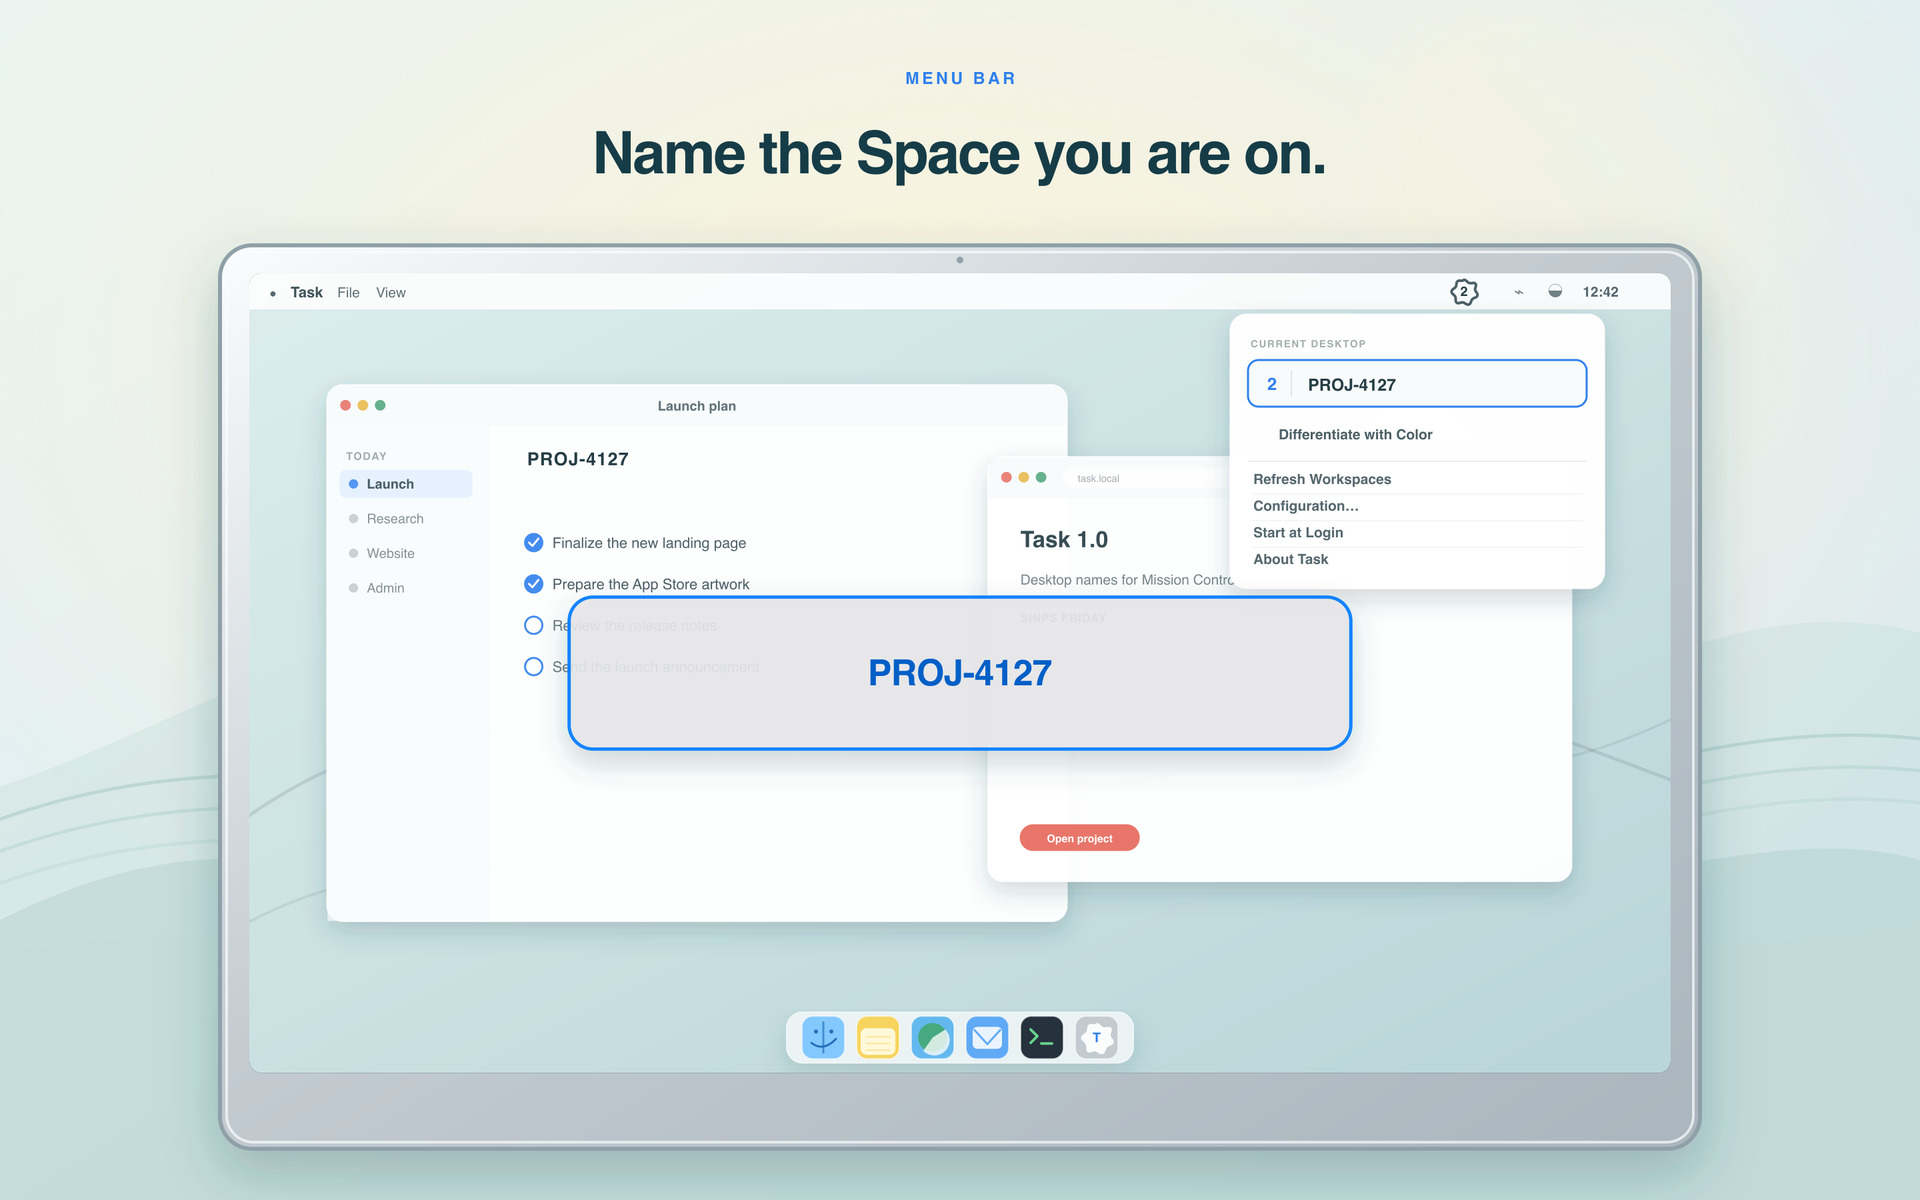
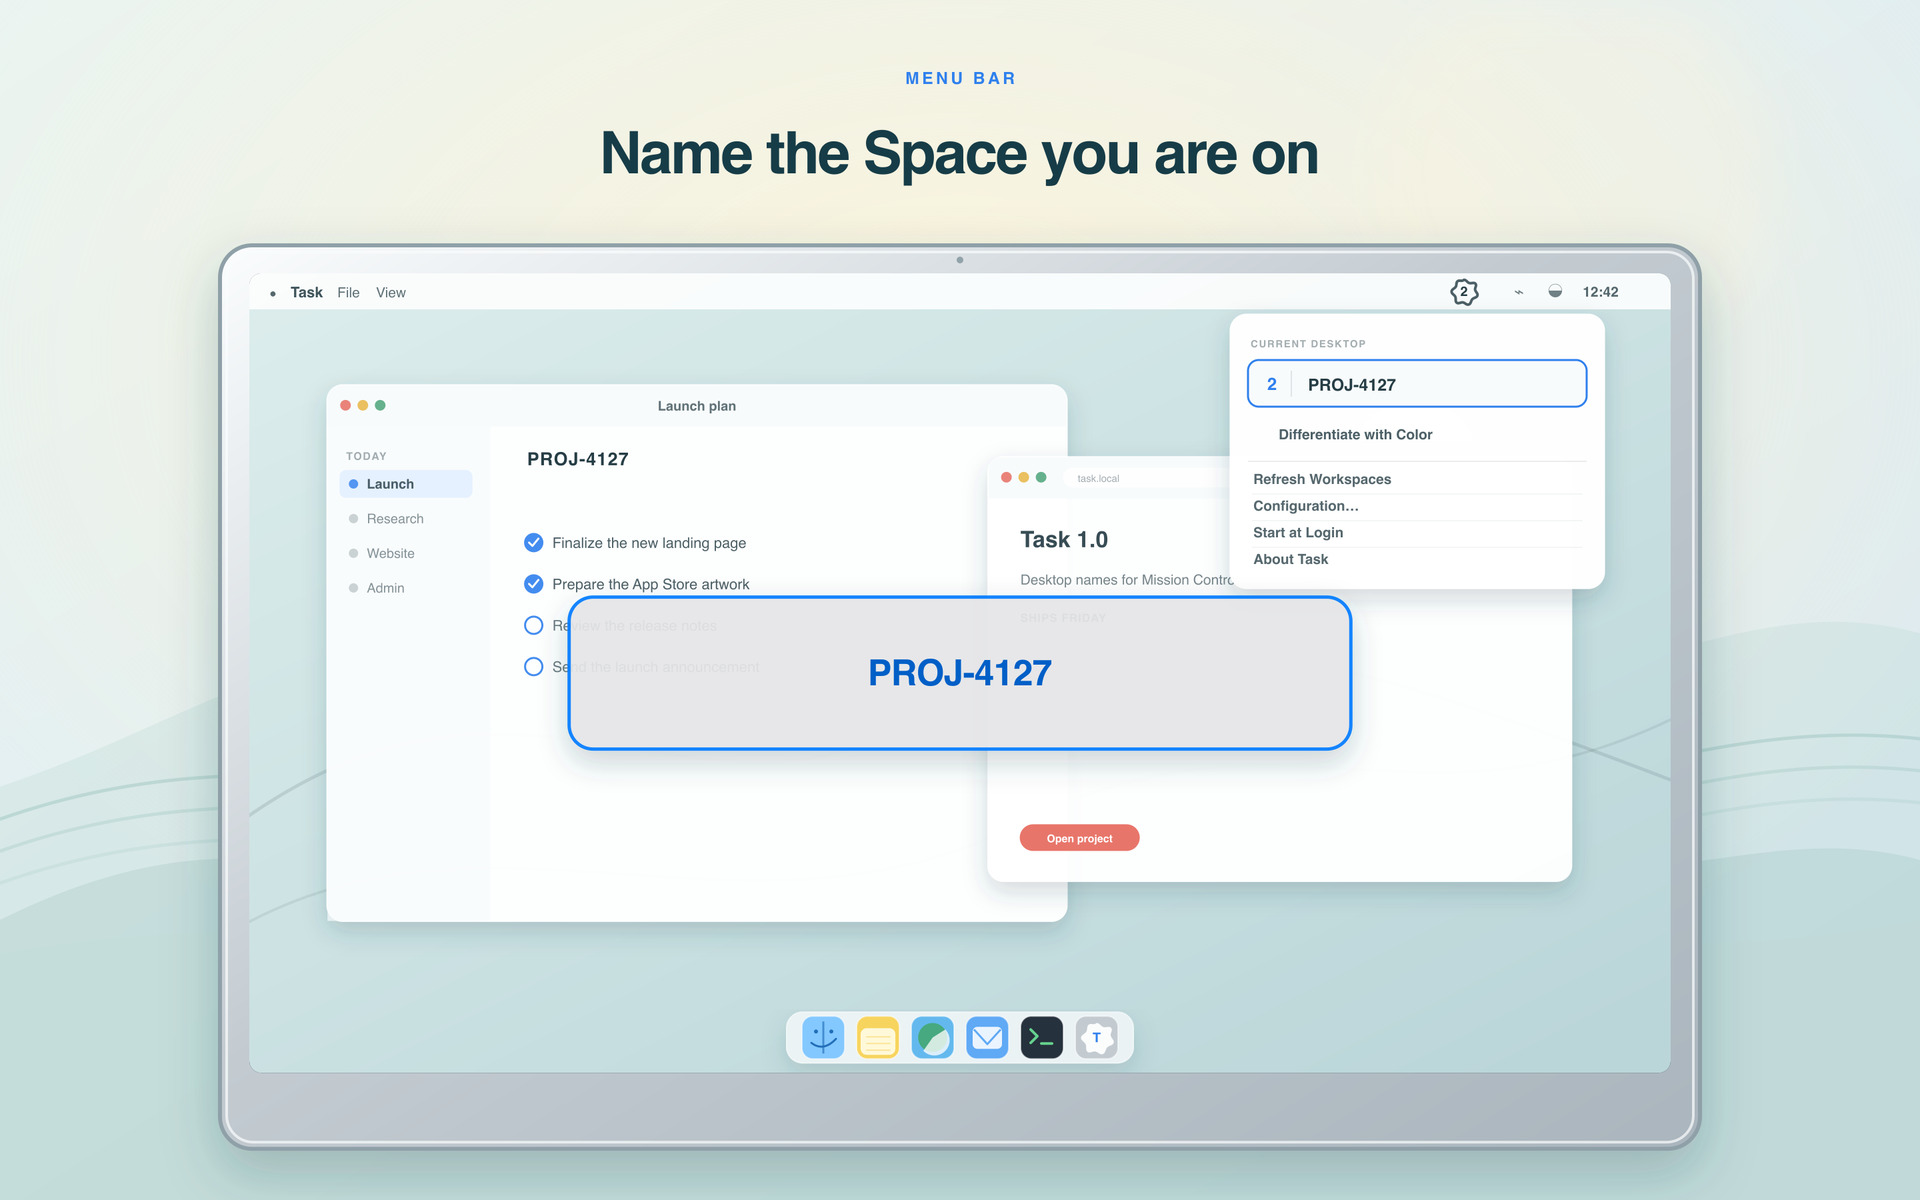
1.2.0

Changed region(s): [[0.3125, 0.0925, 0.6875, 0.1542]]

diff --git a/index.html b/index.html
@@ -4,12 +4,12 @@
   <meta charset="utf-8">
   <meta name="viewport" content="width=device-width, initial-scale=1">
   <title>Task: Name your macOS Spaces</title>
-  <meta name="description" content="Name your macOS Spaces and read those names straight off the Mission Control overview. Task shows your current numbered Desktop in the menu bar and gives every named Space its own color.">
+  <meta name="description" content="Name each macOS Space for the work it holds and read those names straight off the Mission Control overview. Task turns every workspace into a named Task, in the menu bar and on every display, in its own color.">
   <link rel="canonical" href="https://task.500nits.com/">
   <link rel="icon" sizes="32x32" href="/favicon.ico" />
   <link rel="icon" type="image/svg+xml" href="/favicon.svg" />
   <meta property="og:title" content="Task: Name your macOS Spaces">
-  <meta property="og:description" content="Give each macOS Space a name, see it written across its thumbnail in Mission Control, and tell your Spaces apart by color.">
+  <meta property="og:description" content="Give each macOS Space a name for the work it holds, see it written across its thumbnail in Mission Control, and tell your workspaces apart by color.">
   <meta property="og:url" content="https://task.500nits.com/">
   <meta property="og:type" content="website">
   <meta property="og:image" content="https://task.500nits.com/icon.png">
@@ -288,15 +288,16 @@
     <div class="menu-bar-preview">
       <img src="/screenshots/task-menu-bar.png" width="2172" height="724" alt="macOS menu bar showing Task on Desktop 9">
     </div>
-    <p class="eyebrow">Version 1.1.0 · A tiny macOS menu-bar app</p>
+    <p class="eyebrow">Version 1.2.0 · A tiny macOS menu-bar app</p>
     <h1>Know what every Space is for.</h1>
     <p class="intro">Task gives each macOS Space a meaningful name, then writes that name across its thumbnail in Mission Control, so the overview tells you where everything is. The menu-bar tag shows your current numbered Desktop at a glance.</p>
     <a class="cta" href="https://apps.apple.com/app/id6793942588">Download on the Mac App Store</a>
     <p class="requirement">Task needs two Mission Control settings turned off in System Settings → Desktop &amp; Dock: <strong>Displays have separate Spaces</strong> and <strong>Automatically rearrange Spaces based on most recent use</strong>.</p>
     <div class="screenshots">
-      <img src="/screenshots/mission-control.jpg" width="1920" height="1200" alt="Mission Control with seven Spaces, each thumbnail labelled with its name, and the current Space showing a large Customer research badge">
+      <img src="/screenshots/mission-control.jpg" width="1920" height="1200" alt="Mission Control with five Spaces, each thumbnail labelled with its name, and the current Space showing a large Customer research badge">
+      <img src="/screenshots/mission-control_2.jpg" width="1920" height="1200" loading="lazy" alt="Mission Control with five Spaces whose longer names wrap onto two lines inside their thumbnails">
       <img src="/screenshots/name-the-space.jpg" width="1920" height="1200" loading="lazy" alt="Task's menu open from the menu bar with the current Space name PROJ-4127 in an editable field">
-      <img src="/screenshots/differentiate-with-color.jpg" width="1920" height="1200" loading="lazy" alt="Mission Control with six named Spaces, each label drawn in a different color">
+      <img src="/screenshots/differentiate-with-color.jpg" width="1920" height="1200" loading="lazy" alt="Mission Control with five named Spaces, each label drawn in a different color">
     </div>
     <section class="features" aria-label="Task features">
       <article class="feature">
@@ -321,11 +322,11 @@
       </article>
       <article class="feature">
         <h2>Small and local</h2>
-        <p>No account, no analytics, no cloud, no ads. Task stays in the menu bar and out of the Dock.</p>
+        <p>One plain text file holds your whole workspace. No account, no analytics, no cloud, no ads. Task stays in the menu bar and out of the Dock.</p>
       </article>
     </section>
-    <section class="release" aria-label="What is new in version 1.1.0">
-      <h2>New in 1.1.0</h2>
+    <section class="release" aria-label="What is new in version 1.2.0">
+      <h2>New in 1.2.0</h2>
       <ul>
         <li>Named Spaces keep their badge in Mission Control, rather than showing it only for a moment as you switch.</li>
         <li><strong>Differentiate with Color</strong> gives every named Space its own color, saved alongside its name.</li>

diff --git a/support/index.html b/support/index.html
@@ -177,7 +177,7 @@
     </a>
 
     <h1>Support</h1>
-    <p class="intro"><strong>Version 1.1.0.</strong> Task is a small macOS menu-bar app that gives each macOS Space a meaningful name, keeps that name visible in the Mission Control overview, and shows your current numbered Desktop in the menu bar.</p>
+    <p class="intro"><strong>Version 1.2.0.</strong> Task is a small macOS menu-bar app that gives each macOS Space a meaningful name, keeps that name visible in the Mission Control overview, and shows your current numbered Desktop in the menu bar.</p>
 
     <section>
       <h2>Getting started</h2>
